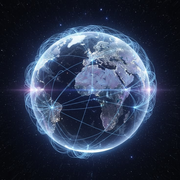
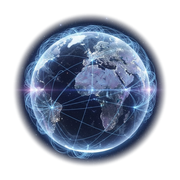
지구본 아이콘 배경 투명화 — 전 계열 통일 (Q490)
북마크바 favicon(지구본)이 어두운 우주 사각 배경을 물고 있어 칩처럼
튀던 것을 투명화. 이미 존재하던 icon-globe-trans-192-260723.png(투명판)을
레퍼런스로 방사형 알파 곡선(50% 정규반경 0.795)을 추출해 동일 원형 마스크를
불투명 아웃라이어에 적용.

- viewer/apple-touch-icon.png : RGBA 투명 (원형 마스크)
- assets/brand/icon-globe-192-260723.png : RGBA 투명
- assets/brand/icon-globe-512-260723.png : RGBA 투명
- viewer/favicon.ico : 마스크된 512에서 16/32/48 재생성 (투명)
- icon-globe-maskable-512 : 불투명 유지 (maskable 스펙 = OS 마스킹)
- index.html favicon·apple-touch 캐시버스터 260723→260723b

전 출력 41.4% 투명(레퍼런스 trans-192 41.5%와 정합) · check_refs rc=0.
원본은 _versions 백업.

Claude-Session: https://claude.ai/code/session_01UoLHnd9s4fh46VTeyZg6w9

diff --git a/viewer/index.html b/viewer/index.html
@@ -7,9 +7,9 @@
 <meta name="color-scheme" content="dark"><!-- 브라우저 기본 캔버스 = 다크 — 하드 새로고침·네비게이션 때 첫 페인트 전 기본 흰 캔버스가 드러나 '배경 확 날아가며 흰색' 번쩍이던 것 차단(운영자 260705) -->
 <title>뉴스 큐레이션 : News Curation</title>
 <!-- 파비콘·홈 아이콘 = 노뮤트 프로필(PNG). 모바일 홈화면은 SVG data-uri 미지원 → PNG 필수 -->
-<link rel="icon" href="/favicon.ico?v=260723" sizes="any">
+<link rel="icon" href="/favicon.ico?v=260723b" sizes="any">
 <link rel="icon" type="image/png" href="assets/brand/icon-globe-trans-192-260723.png">
-<link rel="apple-touch-icon" href="/apple-touch-icon.png"><!-- 【260723 갱신】 아이콘 전 계열(탭 favicon·apple-touch·manifest any/maskable) = 네트워크 지구본으로 통일(운영자 결정 · icon-globe-*-260723). 아래 260707 워드마크/얼굴 스플래시 설계는 이 결정으로 대체(스플래시도 지구본) — 이력 참고용 보존. // (구) 안드로이드 홈·OS 스플래시 = 워드마크 통일(운영자 260707) — 260706 "로고↔스플래시 분리"는 실측상 실패: 크롬 WebAPK는 런처 홈아이콘 = 콜드부트 OS 스플래시에 같은 파일을 써서 둘을 못 나눔 → maskable 슬롯의 팝아트 얼굴이 스플래시에 그대로 노출("옛날 파비콘"). ∴ manifest icons = c판 워드마크(any = icon-192/512-260706c 엣지투엣지 65% · maskable = 전용 패딩판 icon-maskable-512-260706c 워드마크 54.9%<세이프 80% = 원형 크롭 안 잘림 실측) → OS 스플래시가 잠금화면 뒤 배경(오션+워드마크)과 일치 = 스플래시→앱 자연 전환. 워드마크 좌표 정합(구 --lk-intro-shift 정중앙 출발)은 실기기서 안 맞아 폐기(운영자 260707 "타이틀 안 맞네 걍 배경만") — 스플래시→앱 연속은 **배경**(#bootveil = manifest background_color 단색 베일)과 페이드 교차가 담당·워드마크는 lkWmFade 단순 페이드인. 브라우저 탭 favicon(icon-192-260706.png)·iOS apple-touch = 팝아트 로고 유지(운영자 "파비콘 없애는 거 아님"). 한계 = 설치된 폰 홈(WebAPK)은 크롬 manifest 재확인(1~3일) 후 갱신 — 즉시 = 앱 제거 후 재설치 · 배경 연속(#bootveil)은 PIN 유무 무관 전 경로 공통(비PIN = 베일→피드 크로스페이드 · PIN = 베일→잠금 물결) -->
+<link rel="apple-touch-icon" href="/apple-touch-icon.png?v=260723b"><!-- 【260723b 투명화】 지구본 아이콘 전 계열 배경 투명화(원형 알파 마스크 = icon-globe-trans-192 레퍼런스 계승 · favicon.ico·apple-touch·icon-globe-192/512 = RGBA 투명 · maskable은 스펙상 불투명 유지). 【260723 갱신】 아이콘 전 계열(탭 favicon·apple-touch·manifest any/maskable) = 네트워크 지구본으로 통일(운영자 결정 · icon-globe-*-260723). 아래 260707 워드마크/얼굴 스플래시 설계는 이 결정으로 대체(스플래시도 지구본) — 이력 참고용 보존. // (구) 안드로이드 홈·OS 스플래시 = 워드마크 통일(운영자 260707) — 260706 "로고↔스플래시 분리"는 실측상 실패: 크롬 WebAPK는 런처 홈아이콘 = 콜드부트 OS 스플래시에 같은 파일을 써서 둘을 못 나눔 → maskable 슬롯의 팝아트 얼굴이 스플래시에 그대로 노출("옛날 파비콘"). ∴ manifest icons = c판 워드마크(any = icon-192/512-260706c 엣지투엣지 65% · maskable = 전용 패딩판 icon-maskable-512-260706c 워드마크 54.9%<세이프 80% = 원형 크롭 안 잘림 실측) → OS 스플래시가 잠금화면 뒤 배경(오션+워드마크)과 일치 = 스플래시→앱 자연 전환. 워드마크 좌표 정합(구 --lk-intro-shift 정중앙 출발)은 실기기서 안 맞아 폐기(운영자 260707 "타이틀 안 맞네 걍 배경만") — 스플래시→앱 연속은 **배경**(#bootveil = manifest background_color 단색 베일)과 페이드 교차가 담당·워드마크는 lkWmFade 단순 페이드인. 브라우저 탭 favicon(icon-192-260706.png)·iOS apple-touch = 팝아트 로고 유지(운영자 "파비콘 없애는 거 아님"). 한계 = 설치된 폰 홈(WebAPK)은 크롬 manifest 재확인(1~3일) 후 갱신 — 즉시 = 앱 제거 후 재설치 · 배경 연속(#bootveil)은 PIN 유무 무관 전 경로 공통(비PIN = 베일→피드 크로스페이드 · PIN = 베일→잠금 물결) -->
 <link rel="manifest" href="manifest.json">
 <!-- 공유카드(OG · 운영자 260723 지구본 우주 통일) — 절대 URL 필수(크롤러). /assets/*는 Access 면제라 무인증 크롤 가능 -->
 <meta property="og:type" content="website">

diff --git a/docs/요구사항_큐.md b/docs/요구사항_큐.md
@@ -3342,3 +3342,8 @@
   - [해석] 시간대별 반응 두 차트의 X축 인덱싱 위치마다 무채 미니 눈금선(틱) — 핵심 구간 보라 세로변이 축을 살짝 관통하는 것과 같은 문법, 색만 --mut. 요일 차트는 서브 경계(0/8/16/24)에 더해 요일명 자리(중심선)에도.
   - [반영] chLiftChart tick() 공용 — X축(H-mB)에서 아래로 3px 관통(보라 4보다 반 계단 아래 위계) · --mut·1px·op .55 = 지금/오늘 무채 마커 톤 계승 · hour = 0~24 눈금 25개 전부 · dow = 서브 22(0·8·16×7+24) + 요일 중심선 7 = 29개 · 폴백(파싱 실패) 라벨에도 동일 · dow 서브 숫자행 y +1(137→138 = 눈금선과 글리프 캡 간섭 회피).
   - [검증] check_refs ❌0 · smoke_all 16종 전부 PASS(플레이크 0) · Playwright 어서션 = {hour 틱 25 · dow 틱 29 · 서브행 138 이동 후 22숫자·보라 틴트 유지 · 기존 어서션 전건 회귀 0 · pageerror 0} ALL PASS. 머지 후 origin/main 실측 → ✅.
+- ✅ Q490 · "여기있는 아이콘 지구본 투명하게 해줄래?" (첨부: 북마크바 N-C 지구본 지목 · 260723 07:15 KST · claude/globe-icon-transparency-46ioa1)
+  - [해석] 브라우저 북마크바 favicon(지구본)이 어두운 우주 사각 배경을 통째로 물고 있어 "칩"처럼 튐 → 배경 투명화로 원형 지구본만 떠 보이게. 레퍼런스 = 이미 존재하던 icon-globe-trans-192-260723.png(투명판) 그대로 계승.
+  - [반영] trans-192에서 방사형 알파 곡선 추출(50% 크로싱 정규반경 0.795) → 불투명 아웃라이어 3종에 동일 원형 마스크 적용: viewer/apple-touch-icon.png·assets/brand/icon-globe-192·512-260723.png = RGBA 투명(41.4% · trans-192의 41.5%와 정합) · viewer/favicon.ico = 마스크된 512에서 16/32/48 재생성 · maskable-512 = 스펙상 불투명 유지(OS 마스킹). index.html favicon·apple-touch 캐시버스터 260723→260723b(북마크 강제 갱신).
+  - [평의회] 비대상 = 단순 디자인(기존 투명 레퍼런스 계승 · 신규 토큰/컴포넌트/동작 로직 0 · 이미지 자산+head link만).
+  - [검증] check_refs rc=0 · 전 출력 알파 실측(corner=0·center=255·transp 41.4%) · icon-192↔trans-192 알파차 2.5·RGB차 0.03(사실상 동일) · 전/후 비교 이미지(어두운·밝은 바 양컨텍스트) = docs/reports/260723_globe투명화_전후비교.png. 머지 후 origin/main read-back 예정.